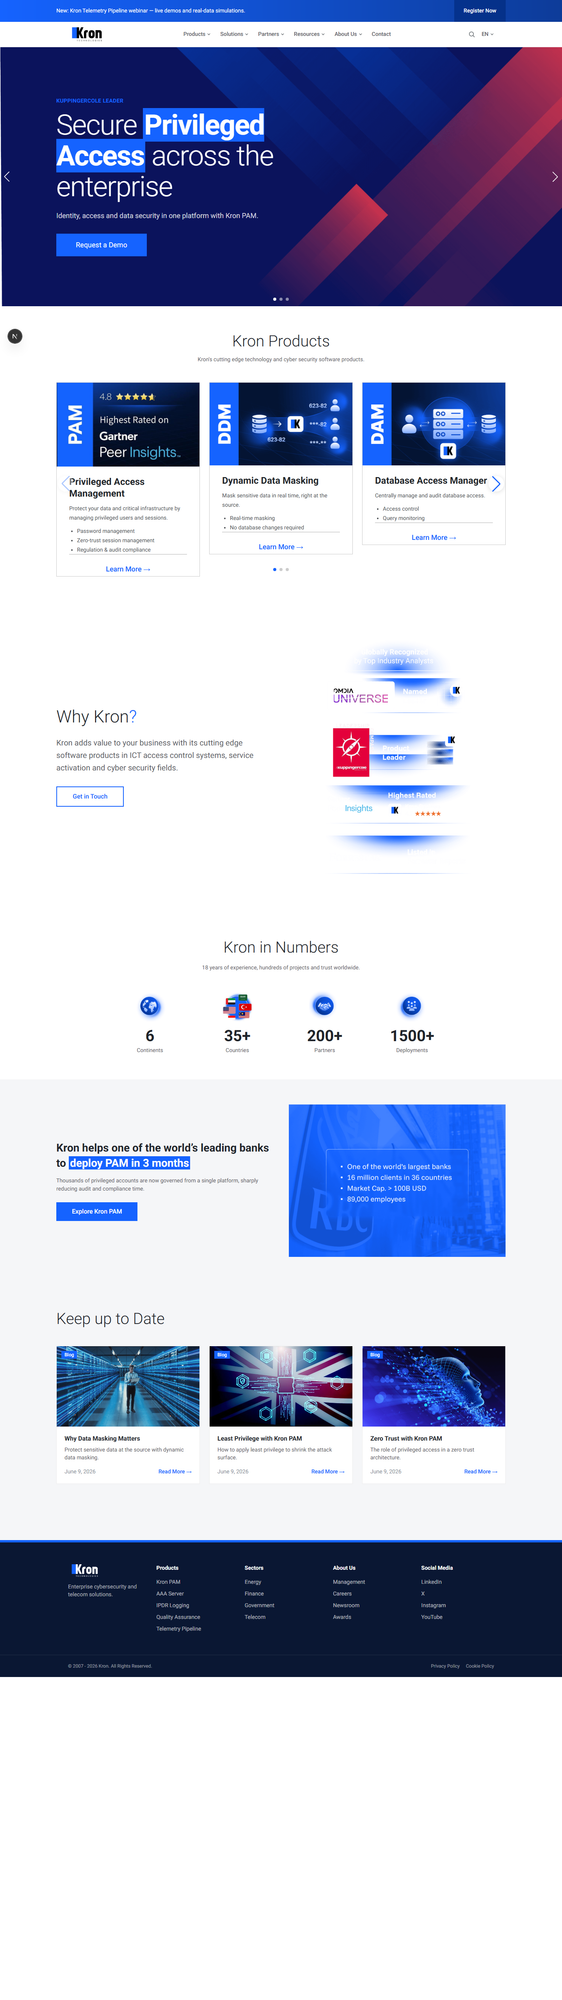
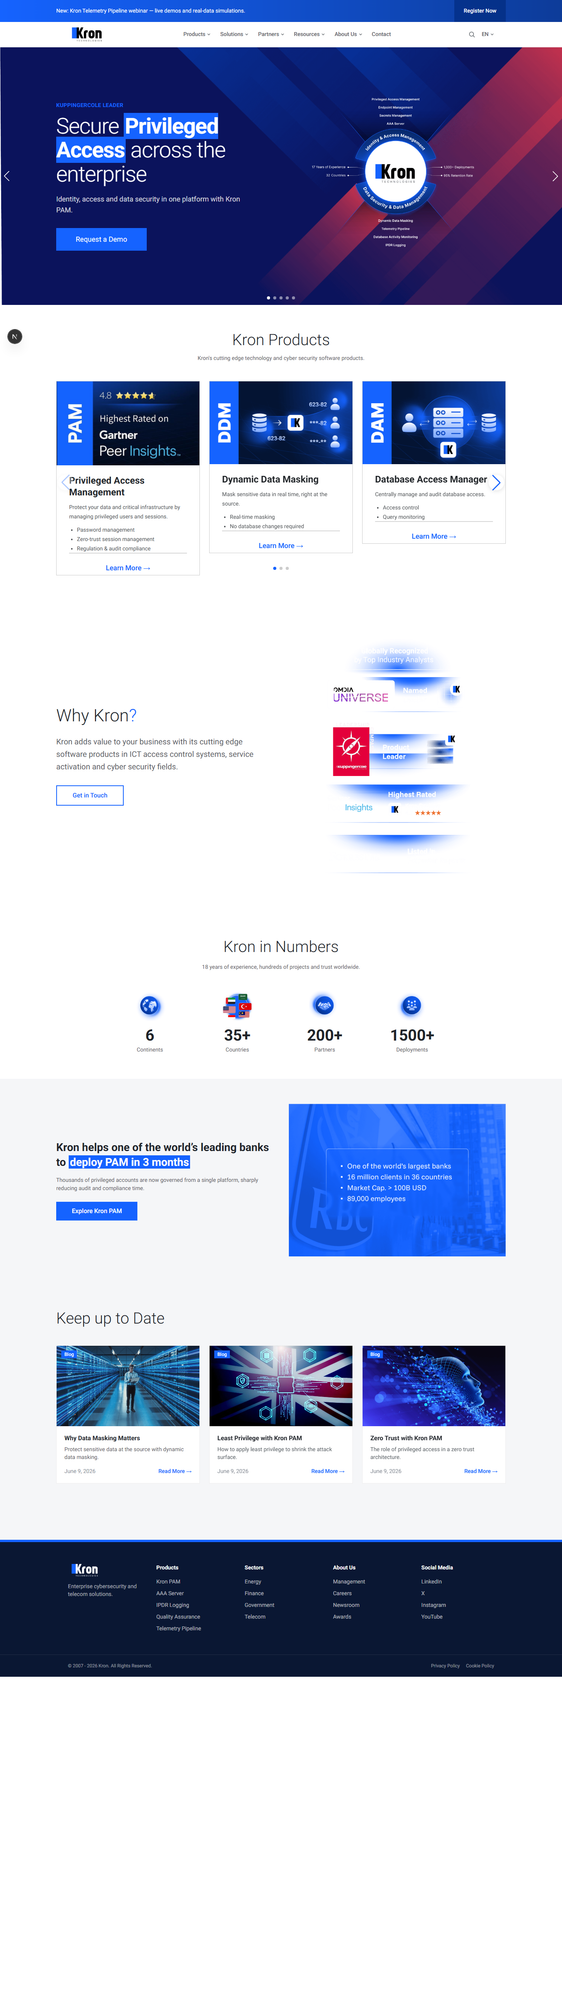
feat(web): hero 5 slide + krontech urun cemberi grafigi (2 kolon, yuksek)
- HeroSlide 2 kolon: sol metin, sag seffaf urun cemberi (krontech slaytimagesmobil);
  min-h ile belirgin daha yuksek hero
- 3->5 hero slide (global/PAM/DDM/AAA/TLMP), her biri kendi grafigi + zemin + urun CTA
- 6 grafik indirildi + sharp alpha-korumali optimize (~45KB; 1123KB->268KB)
- @user/shared HERO.slides[].graphic alani; comparison.md hero satiri + ours screenshot guncel

diff --git a/apps/web/src/components/hero-slide.tsx b/apps/web/src/components/hero-slide.tsx
@@ -6,15 +6,19 @@ export interface HeroSlideData {
   title: string; // <b>...</b> => mavi vurgu (krontech .bgblueb b)
   subtitle?: string;
   cta?: { label?: string; href?: string };
-  image?: { url?: string };
+  image?: { url?: string }; // slide arka plani (krontech slider bg)
+  graphic?: { url?: string }; // sag taraf seffaf urun cemberi (krontech slaytimagesmobil)
 }
 
-// Tek hero slide icerigi — carousel ve tekli hero ortak kullanir (DRY).
+// Tek hero slide — carousel ve tekli hero ortak kullanir (DRY).
+// graphic varsa iki kolon (sol metin, sag krontech urun cemberi); yoksa tam genislik.
 // Sunum amacli: hook yok, hem sunucu hem istemci bileseninden render edilebilir.
 export function HeroSlide({ slide }: { slide: HeroSlideData }): ReactElement {
   const cta = slide.cta;
-  return (
-    <div className="mx-auto max-w-[1200px] px-4 py-24 sm:px-6 md:py-32">
+  const graphic = slide.graphic;
+
+  const text = (
+    <div className="max-w-xl text-left">
       {slide.eyebrow && (
         <p className="mb-3 text-sm font-semibold uppercase tracking-wide text-primary">
           {slide.eyebrow}
@@ -22,11 +26,11 @@ export function HeroSlide({ slide }: { slide: HeroSlideData }): ReactElement {
       )}
       {/* krontech .display-3 (4.5rem / weight 300) + .bgblueb b (mavi vurgu) */}
       <h1
-        className="max-w-3xl text-4xl font-light leading-[1.1] tracking-tight text-white md:text-5xl lg:text-[4.5rem] [&_b]:bg-primary [&_b]:px-[3px] [&_b]:font-bold [&_b]:text-white"
+        className="text-4xl font-light leading-[1.1] tracking-tight text-white md:text-5xl lg:text-[3.5rem] [&_b]:bg-primary [&_b]:px-[3px] [&_b]:font-bold [&_b]:text-white"
         dangerouslySetInnerHTML={{ __html: slide.title }}
       />
       {slide.subtitle && (
-        <p className="mt-5 max-w-2xl text-lg leading-7 text-white/80">{slide.subtitle}</p>
+        <p className="mt-5 max-w-lg text-lg leading-7 text-white/80">{slide.subtitle}</p>
       )}
       {cta?.href && (
         <Link
@@ -35,6 +39,23 @@ export function HeroSlide({ slide }: { slide: HeroSlideData }): ReactElement {
         >
           {cta.label ?? ""}
         </Link>
+      )}
+    </div>
+  );
+
+  // krontech hero yuksek: min-h ile uzun, icerik dikey ortali.
+  return (
+    <div className="mx-auto flex min-h-[560px] max-w-[1200px] items-center px-4 py-20 sm:px-6 md:min-h-[660px]">
+      {graphic?.url ? (
+        <div className="grid w-full items-center gap-8 md:grid-cols-2">
+          {text}
+          <div className="hidden justify-center md:flex">
+            {/* eslint-disable-next-line @next/next/no-img-element */}
+            <img src={graphic.url} alt="" className="w-full max-w-[500px]" />
+          </div>
+        </div>
+      ) : (
+        <div className="w-full">{text}</div>
       )}
     </div>
   );

diff --git a/apps/api/prisma/seed.ts b/apps/api/prisma/seed.ts
@@ -88,9 +88,11 @@ async function main(): Promise<void> {
         blocks: {
           create: [
             { type: 'HERO', order: 0, data: { eyebrow: 'KuppingerCole Lideri', title: 'Ayricalikli Erisimi Guvenle Yonetin', subtitle: 'Kron PAM ile kimlik, erisim ve veri guvenligi tek platformda.', cta: { label: 'Demo Talep Et', href: '/tr/contact' }, slides: [
-              { eyebrow: 'KuppingerCole Lideri', image: { url: '/kron/hero/slider-kc.png' }, title: 'Kurumsal <b>Ayricalikli Erisimi</b> guvenle yonetin', subtitle: 'Kron PAM ile kimlik, erisim ve veri guvenligi tek platformda.', cta: { label: 'Demo Talep Et', href: '/tr/contact' } },
-              { eyebrow: 'Ayricalikli Erisim Yonetimi', title: 'Her <b>ayricalikli oturumu</b> denetleyin', subtitle: 'Ayricalikli hesaplari tek platformdan kaydedin, izleyin ve yonetin.', cta: { label: "Kron PAM'i Kesfet", href: '/tr/kron-pam' } },
-              { eyebrow: 'Icgoruler', image: { url: '/kron/hero/slider-kc.png' }, title: 'Siber tehditlerin <b>onunde olun</b>', subtitle: 'Erisim guvenligi, Sifir Guven ve veri koruma uzerine rehberler ve analizler.', cta: { label: "Blog'u Oku", href: '/tr/blog' } },
+              { eyebrow: 'KuppingerCole Lideri', image: { url: '/kron/hero/slider-kc.png' }, graphic: { url: '/kron/hero/products/global.png' }, title: 'Kurumsal <b>Ayricalikli Erisimi</b> guvenle yonetin', subtitle: 'Kron PAM ile kimlik, erisim ve veri guvenligi tek platformda.', cta: { label: 'Demo Talep Et', href: '/tr/contact' } },
+              { eyebrow: 'Ayricalikli Erisim Yonetimi', graphic: { url: '/kron/hero/products/pam.png' }, title: 'Her <b>ayricalikli oturumu</b> denetleyin', subtitle: 'Ayricalikli hesaplari tek platformdan kaydedin, izleyin ve yonetin.', cta: { label: "Kron PAM'i Kesfet", href: '/tr/kron-pam' } },
+              { eyebrow: 'Veri Guvenligi', image: { url: '/kron/hero/slider-kc.png' }, graphic: { url: '/kron/hero/products/ddm.png' }, title: 'Hassas veriyi <b>kaynaginda maskeleyin</b>', subtitle: 'Dinamik veri maskeleme ile veritabani degismeden korunur.', cta: { label: 'Incele', href: '/tr/dynamic-data-masking' } },
+              { eyebrow: 'Telekom', graphic: { url: '/kron/hero/products/aaa.png' }, title: 'Telekom icin <b>kimlik dogrulama</b>', subtitle: 'RADIUS/TACACS+ ve IPDR loglama ile operator guvenligi.', cta: { label: 'Incele', href: '/tr/aaa' } },
+              { eyebrow: 'Telemetri', image: { url: '/kron/hero/slider-kc.png' }, graphic: { url: '/kron/hero/products/tlmp.png' }, title: 'Log ve telemetriyi <b>guvenle yonetin</b>', subtitle: 'Veriyi toplayin, zenginlestirin, filtreleyin ve hedeflere yonlendirin.', cta: { label: 'Incele', href: '/tr/kron-telemetry-pipeline' } },
             ] } },
             { type: 'PRODUCT_SHOWCASE', order: 1, data: { title: 'Kron Urunleri', subtitle: "Kron'un yenilikci teknoloji ve siber guvenlik yazilim urunleri.", moreLabel: 'Daha Fazla', products: [
               { name: 'Kron PAM', description: 'Ayricalikli kullanicilari ve oturumlari yoneterek verinizi ve kritik altyapinizi koruyun.', href: '/tr/kron-pam', image: { url: '/kron/products/pam.jpg', alt: 'Kron PAM' }, features: ['Sifre yonetimi', 'Sifir Guven oturum yonetimi', 'Mevzuat ve denetim uyumu'] },
@@ -121,9 +123,11 @@ async function main(): Promise<void> {
         blocks: {
           create: [
             { type: 'HERO', order: 0, data: { eyebrow: 'KuppingerCole Leader', title: 'Secure Privileged Access', subtitle: 'Identity, access and data security in one platform with Kron PAM.', cta: { label: 'Request a Demo', href: '/en/contact' }, slides: [
-              { eyebrow: 'KuppingerCole Leader', image: { url: '/kron/hero/slider-kc.png' }, title: 'Secure <b>Privileged Access</b> across the enterprise', subtitle: 'Identity, access and data security in one platform with Kron PAM.', cta: { label: 'Request a Demo', href: '/en/contact' } },
-              { eyebrow: 'Privileged Access Management', title: 'Control every <b>privileged session</b>', subtitle: 'Record, monitor and govern privileged accounts from a single platform.', cta: { label: 'Explore Kron PAM', href: '/en/kron-pam' } },
-              { eyebrow: 'Insights', image: { url: '/kron/hero/slider-kc.png' }, title: 'Stay ahead of <b>cyber threats</b>', subtitle: 'Guides and analysis on access security, Zero Trust and data protection.', cta: { label: 'Read the Blog', href: '/en/blog' } },
+              { eyebrow: 'KuppingerCole Leader', image: { url: '/kron/hero/slider-kc.png' }, graphic: { url: '/kron/hero/products/global.png' }, title: 'Secure <b>Privileged Access</b> across the enterprise', subtitle: 'Identity, access and data security in one platform with Kron PAM.', cta: { label: 'Request a Demo', href: '/en/contact' } },
+              { eyebrow: 'Privileged Access Management', graphic: { url: '/kron/hero/products/pam.png' }, title: 'Control every <b>privileged session</b>', subtitle: 'Record, monitor and govern privileged accounts from a single platform.', cta: { label: 'Explore Kron PAM', href: '/en/kron-pam' } },
+              { eyebrow: 'Data Security', image: { url: '/kron/hero/slider-kc.png' }, graphic: { url: '/kron/hero/products/ddm.png' }, title: 'Mask sensitive data <b>at the source</b>', subtitle: 'Dynamic data masking protects data without changing the database.', cta: { label: 'Learn More', href: '/en/dynamic-data-masking' } },
+              { eyebrow: 'Telecom', graphic: { url: '/kron/hero/products/aaa.png' }, title: 'Authentication for <b>telecom operators</b>', subtitle: 'RADIUS/TACACS+ and IPDR logging for operator security.', cta: { label: 'Learn More', href: '/en/aaa' } },
+              { eyebrow: 'Telemetry', image: { url: '/kron/hero/slider-kc.png' }, graphic: { url: '/kron/hero/products/tlmp.png' }, title: 'Manage logs and telemetry <b>securely</b>', subtitle: 'Collect, enrich, filter and route data to any destination.', cta: { label: 'Learn More', href: '/en/kron-telemetry-pipeline' } },
             ] } },
             { type: 'PRODUCT_SHOWCASE', order: 1, data: { title: 'Kron Products', subtitle: "Kron's cutting edge technology and cyber security software products.", moreLabel: 'Learn More', products: [
               { name: 'Privileged Access Management', description: 'Protect your data and critical infrastructure by managing privileged users and sessions.', href: '/en/kron-pam', image: { url: '/kron/products/pam.jpg', alt: 'Privileged Access Management' }, features: ['Password management', 'Zero-trust session management', 'Regulation & audit compliance'] },

diff --git a/packages/shared/src/index.ts b/packages/shared/src/index.ts
@@ -62,7 +62,8 @@ export const blockSchemas = {
           title: z.string(), // <b>...</b> => mavi vurgu (krontech .bgblueb b)
           subtitle: z.string().optional(),
           cta: linkSchema.optional(),
-          image: imageRefSchema.optional(),
+          image: imageRefSchema.optional(), // slide arka plani
+          graphic: imageRefSchema.optional(), // sag taraf seffaf urun cemberi (krontech)
         }),
       )
       .optional(),

diff --git a/docs/comparison.md b/docs/comparison.md
@@ -39,7 +39,7 @@ Durum: ✅ Eslesti · 🟡 Kismi · ⬜ Bekliyor. Kanit = krontech'ten **cikaril
 | Mavi vurgu | `.bgblueb b { background:#1563ff; color:#fff; padding:0 3px }` | `[&_b]:bg-primary [&_b]:text-white [&_b]:px-[3px]` `hero-slide.tsx` | ✅ |
 | Butonlar | `.btn` **border-radius:0** + 50px yatay padding | `rounded-none px-[50px]` `hero-slide.tsx` | ✅ |
 | Header | duyuru bari + sticky + nav(dropdown) + arama + dil | `site-header.tsx` + `nav.ts` | ✅ |
-| Hero | `#main-slider` Swiper, 2 zemin (sliderbg / slider_bg_kc) | `hero-carousel.tsx` 3 slide, **per-slide zemin** (slider-kc + hero-bg) | ✅ |
+| Hero | `#main-slider` Swiper; 2 zemin + per-slide **seffaf urun cemberi** (slaytimagesmobil) | `hero-carousel.tsx` **5 slide**, 2 kolon (metin + urun grafigi), per-slide zemin, yuksek | ✅ |
 | Urun showcase | "Kron Products" **gorselli** kart slider (productslider) | `PRODUCT_SHOWCASE` → `product-carousel.tsx` (5 gercek urun + gorsel) | ✅ |
 | Deger onermesi | "Why Kron?" **iki kolon** (metin + gorsel + outline btn) | `VALUE_PROP` iki kolon + `why-kron.png` | ✅ |
 | Istatistik | "6 kita / 35+ / 200+ / 1500+" **ikonlu** | `STATS` + ikon gorselleri | ✅ |